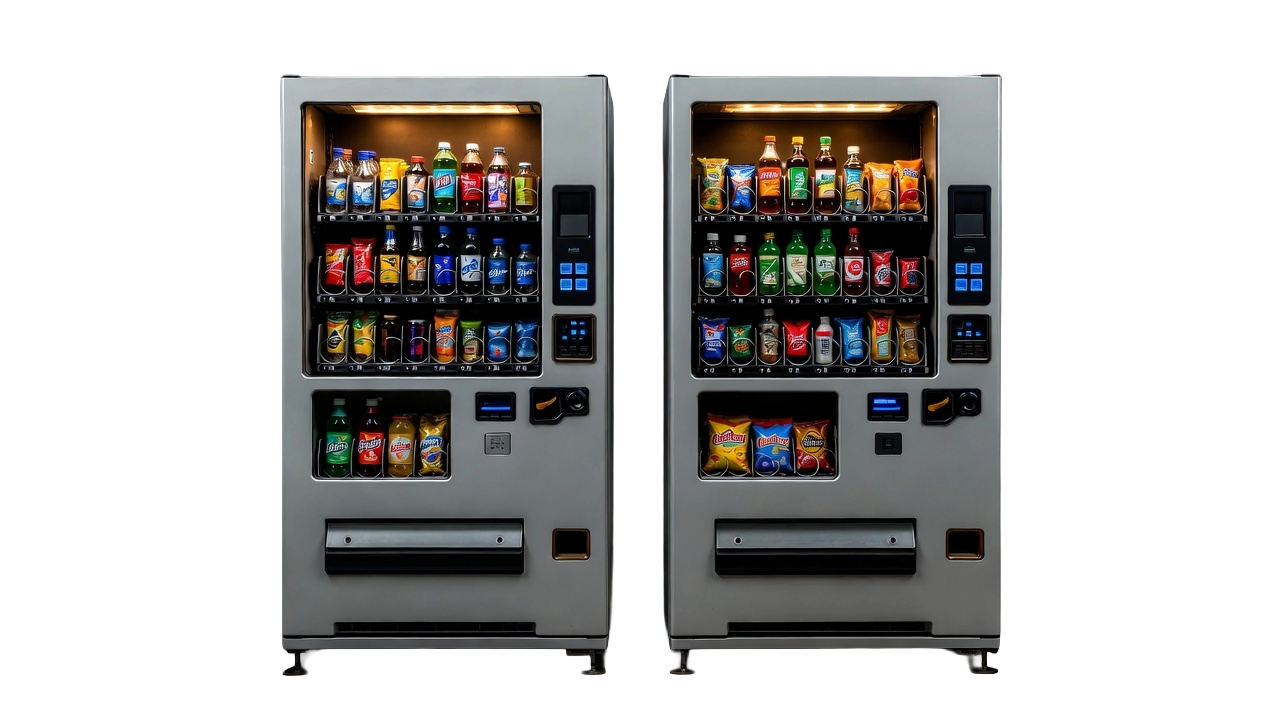
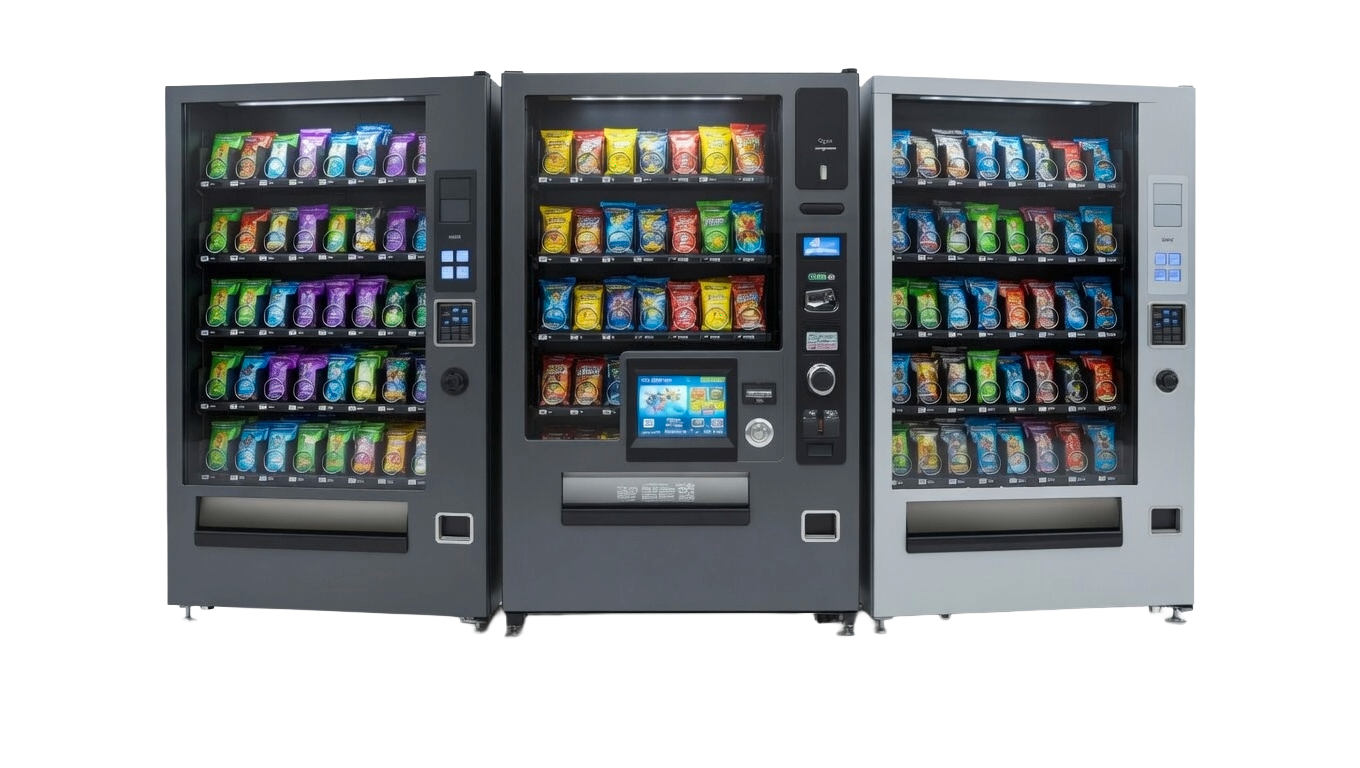
Update Landing Page BG

diff --git a/app/page.tsx b/app/page.tsx
@@ -102,7 +102,7 @@ export default function LandingPage() {
     alt="Vending machine"
     width={1000}
     height={800}
-    className="absolute top-30 z-0 scale-200 blur-[1px]"
+    className="absolute top-25 z-0 scale-160 blur-[1px]"
   />
   {/* LEFT MOCKUP */}
   <Image
@@ -110,7 +110,7 @@ export default function LandingPage() {
     alt="Analytics Screen"
     width={260}
     height={520}
-    className="absolute left-[-50px] top-[150px] z-0 opacity-100 scale-80 rotate-[-12deg] blur-[0px]"
+    className="absolute left-[-30px] top-[150px] z-0 opacity-100 scale-80 rotate-[-12deg] blur-[0px]"
   />
 
   {/* RIGHT MOCKUP */}
@@ -119,10 +119,8 @@ export default function LandingPage() {
     alt="Inventory Screen"
     width={260}
     height={520}
-    className="absolute right-[-50px] top-[150px] z-0 opacity-100 scale-80 rotate-[12deg] blur-[0px]"
+    className="absolute right-[-30px] top-[150px] z-0 opacity-100 scale-80 rotate-[12deg] blur-[0px]"
   />
-
-
 
   {/* MAIN PHONE (FOCUS) */}
   <Image
